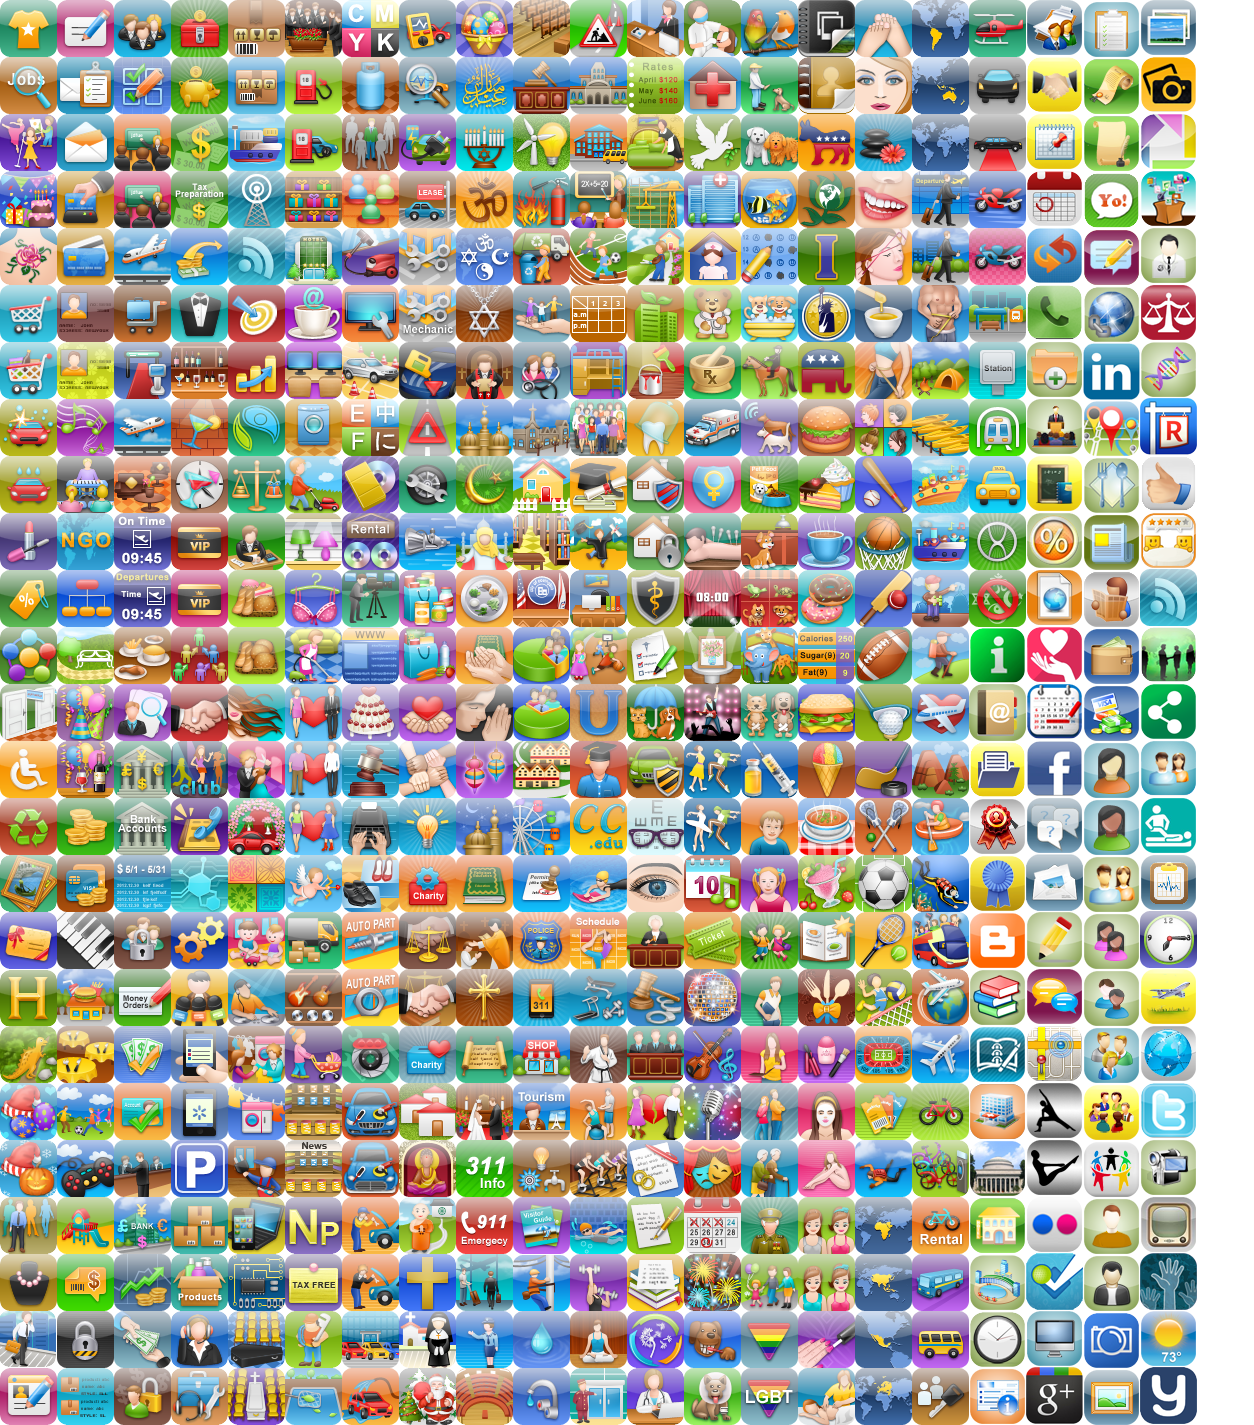
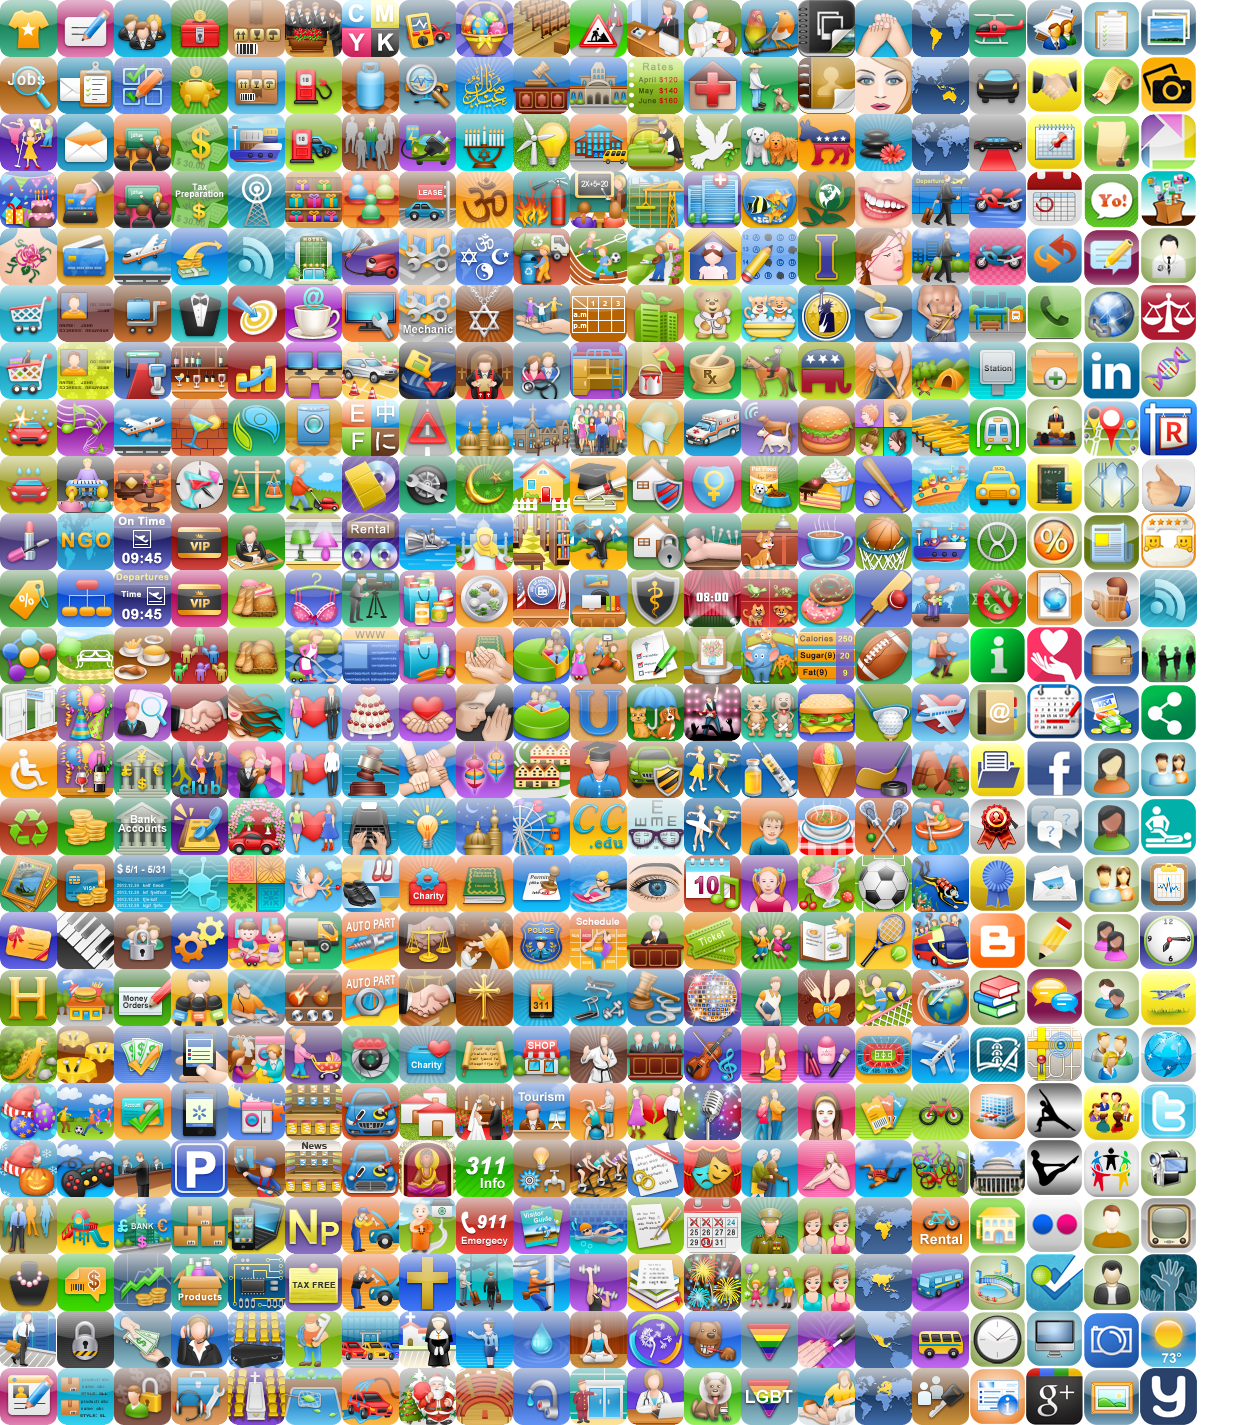
Fixed background-position errors in change-wicon.css and fixed spacing in change-wicon.png

diff --git a/public/stylesheets/change-wicon.css b/public/stylesheets/change-wicon.css
@@ -178,56 +178,56 @@
 .wicon-opt.i-125-car-repair-general-2 { background-position: -342px -1254px;  }
 .wicon-opt.i-126-car-dealership { background-position: -342px -1311px;  }
 .wicon-opt.i-127-carwash { background-position: -342px -1368px;  }
-.wicon-opt.i-128-diagnostics-1 { background-position: -0px 0px;  }
-.wicon-opt.i-128-diagnostics { background-position: -0px -57px;  }
-.wicon-opt.i-129-hybrid-electric-vehicles { background-position: -0px -114px;  }
-.wicon-opt.i-130-leasing { background-position: -0px -171px;  }
-.wicon-opt.i-131-mechanic-shop-1 { background-position: -0px -228px;  }
-.wicon-opt.i-131-mechanic-shop { background-position: -0px -285px;  }
-.wicon-opt.i-133-oil-change { background-position: -0px -342px;  }
-.wicon-opt.i-134-road-side-assistance { background-position: -0px -399px;  }
-.wicon-opt.i-135-tire-dealer-tire-repair { background-position: -0px -456px;  }
-.wicon-opt.i-136-transmission-shop { background-position: -0px -513px;  }
-.wicon-opt.i-137-food-1 { background-position: -0px -570px;  }
-.wicon-opt.i-137-food-2 { background-position: -0px -627px;  }
-.wicon-opt.i-138-get-involved { background-position: -0px -684px;  }
-.wicon-opt.i-139-getting-assistance { background-position: -0px -741px;  }
-.wicon-opt.i-140-how-it-works-1 { background-position: -0px -798px;  }
-.wicon-opt.i-140-how-it-works { background-position: -0px -855px;  }
-.wicon-opt.i-141-legal-assistance-1 { background-position: -0px -912px;  }
-.wicon-opt.i-141-legal-assistance-2 { background-position: -0px -969px;  }
-.wicon-opt.i-142-projects { background-position: -0px -1026px;  }
-.wicon-opt.i-143-shelter { background-position: -0px -1083px;  }
-.wicon-opt.i-144-buddhist-1 { background-position: -0px -1140px;  }
-.wicon-opt.i-144-buddhist-2 { background-position: -0px -1197px;  }
-.wicon-opt.i-145-christian-1 { background-position: -0px -1254px;  }
-.wicon-opt.i-145-christian-2 { background-position: -0px -1311px;  }
-.wicon-opt.i-146-christmas { background-position: -0px -1368px;  }
-.wicon-opt.i-147-easter { background-position: -0px 0px;  }
-.wicon-opt.i-148-eid-1 { background-position: -0px -57px;  }
-.wicon-opt.i-150-hannukah { background-position: -0px -114px;  }
-.wicon-opt.i-151-hindu { background-position: -0px -171px;  }
-.wicon-opt.i-152-interfaith { background-position: -0px -228px;  }
-.wicon-opt.i-153-jewish { background-position: -0px -285px;  }
-.wicon-opt.i-154-ministry { background-position: -0px -342px;  }
-.wicon-opt.i-155-mosque { background-position: -0px -399px;  }
-.wicon-opt.i-155-muslim-1 { background-position: -0px -456px;  }
-.wicon-opt.i-155-muslim-2 { background-position: -0px -513px;  }
-.wicon-opt.i-156-passover { background-position: -0px -570px;  }
-.wicon-opt.i-157-prayer-service-1 { background-position: -0px -627px;  }
-.wicon-opt.i-157-prayer-service-2 { background-position: -0px -684px;  }
-.wicon-opt.i-158-festival { background-position: -0px -741px;  }
-.wicon-opt.i-158-ramadan-1 { background-position: -0px -798px;  }
-.wicon-opt.i-159-religious-education { background-position: -0px -855px;  }
-.wicon-opt.i-160-sacraments { background-position: -0px -912px;  }
-.wicon-opt.i-161-scientology { background-position: -0px -969px;  }
-.wicon-opt.i-162-scripture { background-position: -0px -1026px;  }
-.wicon-opt.i-163-wedding-services { background-position: -0px -1083px;  }
-.wicon-opt.i-164-311-info { background-position: -0px -1140px;  }
-.wicon-opt.i-165-911-emergecy { background-position: -0px -1197px;  }
-.wicon-opt.i-166-airport { background-position: -0px -1254px;  }
-.wicon-opt.i-167-code-compliance { background-position: -0px -1311px;  }
-.wicon-opt.i-168-convention-center-1 { background-position: -0px -1368px;  }
+.wicon-opt.i-128-diagnostics-1 { background-position: -399px 0px;  }
+.wicon-opt.i-128-diagnostics { background-position: -399px -57px;  }
+.wicon-opt.i-129-hybrid-electric-vehicles { background-position: -399px -114px;  }
+.wicon-opt.i-130-leasing { background-position: -399px -171px;  }
+.wicon-opt.i-131-mechanic-shop-1 { background-position: -399px -228px;  }
+.wicon-opt.i-131-mechanic-shop { background-position: -399px -285px;  }
+.wicon-opt.i-133-oil-change { background-position: -399px -342px;  }
+.wicon-opt.i-134-road-side-assistance { background-position: -399px -399px;  }
+.wicon-opt.i-135-tire-dealer-tire-repair { background-position: -399px -456px;  }
+.wicon-opt.i-136-transmission-shop { background-position: -399px -513px;  }
+.wicon-opt.i-137-food-1 { background-position: -399px -570px;  }
+.wicon-opt.i-137-food-2 { background-position: -399px -627px;  }
+.wicon-opt.i-138-get-involved { background-position: -399px -684px;  }
+.wicon-opt.i-139-getting-assistance { background-position: -399px -741px;  }
+.wicon-opt.i-140-how-it-works-1 { background-position: -399px -798px;  }
+.wicon-opt.i-140-how-it-works { background-position: -399px -855px;  }
+.wicon-opt.i-141-legal-assistance-1 { background-position: -399px -912px;  }
+.wicon-opt.i-141-legal-assistance-2 { background-position: -399px -969px;  }
+.wicon-opt.i-142-projects { background-position: -399px -1026px;  }
+.wicon-opt.i-143-shelter { background-position: -399px -1083px;  }
+.wicon-opt.i-144-buddhist-1 { background-position: -399px -1140px;  }
+.wicon-opt.i-144-buddhist-2 { background-position: -399px -1197px;  }
+.wicon-opt.i-145-christian-1 { background-position: -399px -1254px;  }
+.wicon-opt.i-145-christian-2 { background-position: -399px -1311px;  }
+.wicon-opt.i-146-christmas { background-position: -399px -1368px;  }
+.wicon-opt.i-147-easter { background-position: -456px 0px;  }
+.wicon-opt.i-148-eid-1 { background-position: -456px -57px;  }
+.wicon-opt.i-150-hannukah { background-position: -456px -114px;  }
+.wicon-opt.i-151-hindu { background-position: -456px -171px;  }
+.wicon-opt.i-152-interfaith { background-position: -456px -228px;  }
+.wicon-opt.i-153-jewish { background-position: -456px -285px;  }
+.wicon-opt.i-154-ministry { background-position: -456px -342px;  }
+.wicon-opt.i-155-mosque { background-position: -456px -399px;  }
+.wicon-opt.i-155-muslim-1 { background-position: -456px -456px;  }
+.wicon-opt.i-155-muslim-2 { background-position: -456px -513px;  }
+.wicon-opt.i-156-passover { background-position: -456px -570px;  }
+.wicon-opt.i-157-prayer-service-1 { background-position: -456px -627px;  }
+.wicon-opt.i-157-prayer-service-2 { background-position: -456px -684px;  }
+.wicon-opt.i-158-festival { background-position: -456px -741px;  }
+.wicon-opt.i-158-ramadan-1 { background-position: -456px -798px;  }
+.wicon-opt.i-159-religious-education { background-position: -456px -855px;  }
+.wicon-opt.i-160-sacraments { background-position: -456px -912px;  }
+.wicon-opt.i-161-scientology { background-position: -456px -969px;  }
+.wicon-opt.i-162-scripture { background-position: -456px -1026px;  }
+.wicon-opt.i-163-wedding-services { background-position: -456px -1083px;  }
+.wicon-opt.i-164-311-info { background-position: -456px -1140px;  }
+.wicon-opt.i-165-911-emergecy { background-position: -456px -1197px;  }
+.wicon-opt.i-166-airport { background-position: -456px -1254px;  }
+.wicon-opt.i-167-code-compliance { background-position: -456px -1311px;  }
+.wicon-opt.i-168-convention-center-1 { background-position: -456px -1368px;  }
 .wicon-opt.i-168-convention-center-2 { background-position: -513px 0px;  }
 .wicon-opt.i-169-courts { background-position: -513px -57px;  }
 .wicon-opt.i-170-electricty { background-position: -513px -114px;  }
